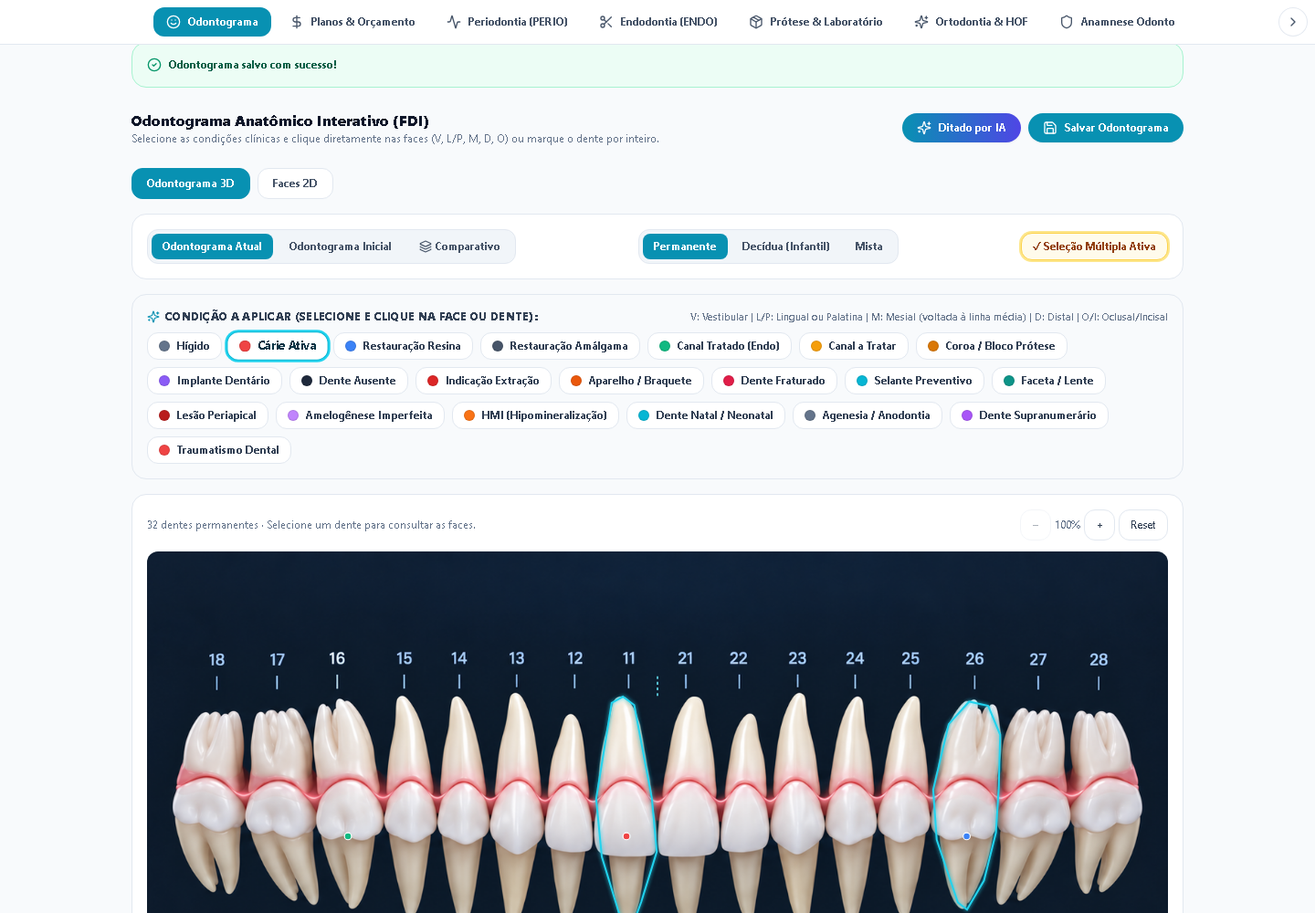
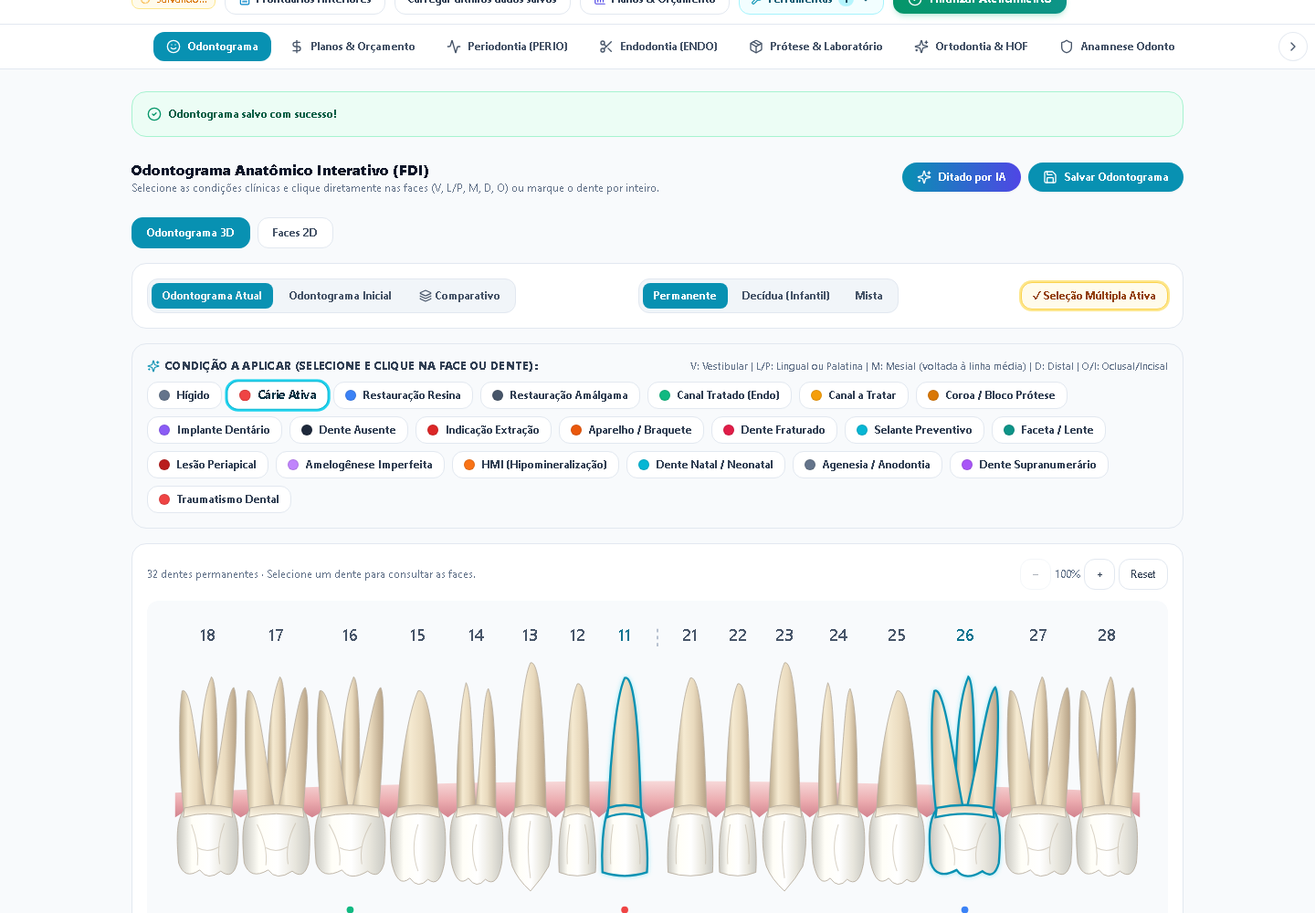
feat: separa estrutura dos dentes e aprimora selecao do odontograma 3d

diff --git a/frontend/src/components/dentistry/Odontogram3D.tsx b/frontend/src/components/dentistry/Odontogram3D.tsx
@@ -1,7 +1,13 @@
-import React, { useState } from 'react';
+import React, { useState, lazy, Suspense } from 'react';
 import { DENTAL_CONDITIONS, OdontogramData, ToothFace } from './odontogramModel';
 import { conditionLabel, describeToothStatus, faceLabel, toothFaces, toothName, ToothChange, updateToothCondition, isUpperTooth } from './odontogramClinical';
-import { PERMANENT_3D_HIT_AREAS } from './odontogram3DGeometry';
+const DentalArch3D = lazy(() => import('./DentalArch3D'));
+
+export class AnatomicalViewBoundary extends React.Component<{onShowFaces:()=>void;children:React.ReactNode},{failed:boolean}> {
+  state={failed:false};
+  static getDerivedStateFromError(){return {failed:true};}
+  render(){return this.state.failed ? <div role="alert" className="p-6 space-y-3"><p>Não foi possível carregar a visualização anatômica.</p><button type="button" className={button} onClick={this.props.onShowFaces}>Abrir Mapa de Faces 2D</button></div> : this.props.children;}
+}
 
 interface Props {
   currentData: OdontogramData;
@@ -14,15 +20,14 @@ interface Props {
   multiSelectMode: boolean;
   onToggleTooth: (tooth: number) => void;
   readOnly?: boolean;
-  showDebugHitAreas?: boolean;
+  showDebugBoundaries?: boolean;
 }
 const button = 'px-3 py-2 rounded-xl border border-slate-200 bg-white text-xs font-semibold text-slate-700 hover:border-cyan-500 focus-visible:ring-2 focus-visible:ring-cyan-500 disabled:opacity-40';
 
-export function Odontogram3D({ currentData, activeCondition, onChange, onToothClick, onOpenToothDossier, onShowFaces, selectedTeeth, multiSelectMode, onToggleTooth, readOnly = false, showDebugHitAreas = false }: Props) {
+export function Odontogram3D({ currentData, activeCondition, onChange, onToothClick, onOpenToothDossier, onShowFaces, selectedTeeth, multiSelectMode, onToggleTooth, readOnly = false, showDebugBoundaries = false }: Props) {
   const [selected, setSelected] = useState<number | null>(null);
   const [hovered, setHovered] = useState<number | null>(null);
   const [zoom, setZoom] = useState(1);
-  const [failed, setFailed] = useState(false);
   const condition = DENTAL_CONDITIONS.find(c => c.id === activeCondition);
   const targets = multiSelectMode ? selectedTeeth : selected ? [selected] : [];
   const apply = (face: ToothFace) => {
@@ -45,10 +50,6 @@ export function Odontogram3D({ currentData, activeCondition, onChange, onToothCl
       if (result.changes.length) onChange(result.data, result.changes);
     }
   };
-  if (failed) return <div role="alert" className="p-6 bg-white border rounded-2xl space-y-3">
-    <p>Não foi possível carregar a visualização 3D.</p><button type="button" className={button} onClick={onShowFaces}>Abrir Mapa de Faces 2D</button>
-  </div>;
-
   return <section aria-label="Odontograma 3D interativo" className="min-w-0 max-w-full bg-white border border-slate-200 rounded-2xl p-3 sm:p-4 space-y-3">
     <div className="flex flex-wrap justify-between items-center gap-2">
       <p className="text-xs text-slate-500">32 dentes permanentes · Selecione um dente para consultar as faces.</p>
@@ -60,34 +61,14 @@ export function Odontogram3D({ currentData, activeCondition, onChange, onToothCl
       </div>
     </div>
     <div className="max-w-full overflow-auto rounded-xl" style={{ maxHeight: zoom > 1 ? '70vh' : undefined }} tabIndex={0} aria-label="Arcadas; amplie e deslize para navegar">
-      <div className="relative" style={{ width: `${zoom * 100}%`, aspectRatio: '1448 / 1086' }}>
-        <img src="/assets/dentistry/odontogram-3d-permanent.png" alt="Arcadas permanentes com coroas, raízes e gengiva, numeradas pelo sistema FDI" width={1448} height={1086} className="block w-full h-auto object-contain" draggable={false} onError={() => setFailed(true)} />
-        <svg viewBox="0 0 1448 1086" className="absolute inset-0 w-full h-full" aria-label="Seleção dos dentes permanentes">
-          <path d="M724 177 V205 M724 855 V881" stroke="#67e8f9" strokeWidth="2" strokeDasharray="4 4" pointerEvents="none" />
-          {PERMANENT_3D_HIT_AREAS.map(area => {
-            const status = currentData[area.tooth] || {};
-            const selectedHere = multiSelectMode ? selectedTeeth.includes(area.tooth) : selected === area.tooth;
-            const highlighted = selectedHere || hovered === area.tooth;
-            const clinical = (['whole', ...toothFaces(area.tooth)] as ToothFace[]).filter(f => status[f] && status[f] !== 'healthy');
-            return <g key={area.tooth}>
-              <polygon data-tooth={area.tooth} points={area.points} role="button" tabIndex={0}
-                aria-label={`Dente ${area.tooth} — ${toothName(area.tooth)} — ${describeToothStatus(status, area.tooth)}`}
-                aria-pressed={selectedHere} onClick={() => select(area.tooth)}
-                onKeyDown={e => { if (e.key === 'Enter' || e.key === ' ') { e.preventDefault(); select(area.tooth); } }}
-                onMouseEnter={() => setHovered(area.tooth)} onMouseLeave={() => setHovered(null)}
-                onFocus={() => setHovered(area.tooth)} onBlur={() => setHovered(null)}
-                fill={status.whole === 'missing' ? '#0f172ac9' : showDebugHitAreas ? '#f472b640' : 'transparent'}
-                stroke={highlighted ? '#22d3ee' : showDebugHitAreas ? '#f472b6' : 'transparent'} strokeWidth={selectedHere ? 2 : 1}
-                vectorEffect="non-scaling-stroke" style={{ cursor: 'pointer', outline: 'none', filter: selectedHere ? 'drop-shadow(0 0 3px #22d3ee)' : undefined }}>
-                <title>{`Dente ${area.tooth}\n${toothName(area.tooth)}\n${describeToothStatus(status, area.tooth)}`}</title>
-              </polygon>
-              <g pointerEvents="none">
-                {clinical.map((face, i) => <circle key={face} cx={area.x + (i - (clinical.length - 1) / 2) * 12} cy={area.y + 34} r="5" stroke="white" strokeWidth="1.5" fill={DENTAL_CONDITIONS.find(c => c.id === status[face])?.color || '#64748b'} />)}
-                {(status.whole === 'implant' || status.whole === 'missing') && <text x={area.x} y={area.y} textAnchor="middle" fill={status.whole === 'implant' ? '#6d28d9' : 'white'} fontSize="13" fontWeight="bold">{status.whole === 'implant' ? 'Implante' : 'Ausente'}</text>}
-              </g>
-            </g>;
-          })}
-        </svg>
+      <div className="bg-slate-50 rounded-xl" style={{ width: `${zoom * 100}%`, minHeight: 180 }}>
+        <AnatomicalViewBoundary onShowFaces={onShowFaces}>
+          <Suspense fallback={<p role="status" className="p-6 text-sm text-slate-500">Carregando visualização anatômica...</p>}>
+            <DentalArch3D currentData={currentData} selected={selected} hovered={hovered}
+              selectedTeeth={selectedTeeth} multiSelectMode={multiSelectMode}
+              onSelect={select} onHover={setHovered} showDebugBoundaries={showDebugBoundaries}/>
+          </Suspense>
+        </AnatomicalViewBoundary>
       </div>
     </div>
     <div className="min-h-8 text-xs text-slate-600" role="status">{hovered ? `Dente ${hovered} — ${toothName(hovered)} · ${describeToothStatus(currentData[hovered], hovered)}` : 'Use Tab e Enter para selecionar pelo teclado. O zoom permite navegar pelas arcadas em telas menores.'}</div>

diff --git a/frontend/src/components/dentistry/DentalArch3D.tsx b/frontend/src/components/dentistry/DentalArch3D.tsx
@@ -1,0 +1,42 @@
+import React, {useId} from 'react';
+import { OdontogramData } from './odontogramModel';
+import { Tooth3D } from './Tooth3D';
+import { UPPER_PERMANENT, LOWER_PERMANENT, toothAnatomy } from './toothAnatomy';
+
+interface Props {
+  currentData: OdontogramData; selected: number | null; hovered: number | null;
+  selectedTeeth: number[]; multiSelectMode: boolean;
+  onSelect: (tooth: number)=>void; onHover: (tooth: number|null)=>void;
+  showDebugBoundaries?: boolean;
+}
+const widths=UPPER_PERMANENT.map((n,i)=>Math.max(toothAnatomy(n).width,toothAnatomy(LOWER_PERMANENT[i]).width)+6);
+const edge=(index:number)=>24+widths.slice(0,index).reduce((sum,w)=>sum+w,0)+(index>=8?12:0);
+const xPosition=(index:number)=>edge(index)+widths[index]/2-32;
+const sceneWidth=edge(16)+24;
+/** Cervical tissue connects the elements behind them; it cannot receive clicks. */
+function Gingiva({upper,paintId}:{upper:boolean;paintId:string}) {
+  const scallops=Array.from({length:16},(_,i)=>`Q${xPosition(i)+32} 117 ${edge(i)+widths[i]} 137`).join(' ');
+  return <path data-gingiva={upper?'upper':'lower'} pointerEvents="none"
+    transform={upper?undefined:'translate(0 210) scale(1 -1)'}
+    d={`M24 137 ${scallops} L${sceneWidth-24} 116 Q${sceneWidth/2} 96 24 116 Z`} fill={`url(#${paintId}-gum)`} opacity="0.9" />;
+}
+export default function DentalArch3D(props:Props) {
+  const paintId='tooth-'+useId().replace(/:/g,'');
+  return <svg viewBox={`0 0 ${sceneWidth} 570`} className="block w-full h-auto" aria-label="Arcadas permanentes individualizadas">
+    <defs>
+      <linearGradient id={`${paintId}-enamel`} x1="0" x2="1"><stop stopColor="#c8c7c0"/><stop offset=".24" stopColor="#fffef7"/><stop offset=".52" stopColor="#fff"/><stop offset=".78" stopColor="#e8e6dd"/><stop offset="1" stopColor="#c9c9c3"/></linearGradient>
+      <linearGradient id={`${paintId}-root`} x1="0" x2="1"><stop stopColor="#b9a789"/><stop offset=".3" stopColor="#f5ead1"/><stop offset=".6" stopColor="#e9dabe"/><stop offset="1" stopColor="#b6a185"/></linearGradient>
+      <linearGradient id={`${paintId}-neck`} x1="0" x2="0" y1="0" y2="1"><stop stopColor="#ded1b9"/><stop offset="1" stopColor="#fff9e9"/></linearGradient>
+      <linearGradient id={`${paintId}-gum`} x1="0" x2="0" y1="0" y2="1"><stop stopColor="#f7d5d5"/><stop offset=".55" stopColor="#eaa3a7"/><stop offset="1" stopColor="#ce7682"/></linearGradient>
+    </defs>
+    {[true,false].map(upper=><g key={String(upper)} data-arch={upper?'upper':'lower'} transform={`translate(0 ${upper?48:302})`}>
+      <Gingiva upper={upper} paintId={paintId}/>
+      {(upper?UPPER_PERMANENT:LOWER_PERMANENT).map((tooth,i)=><g key={tooth} transform={`translate(${xPosition(i)} 0)`}>
+        <Tooth3D tooth={tooth} upper={upper} paintId={paintId} status={props.currentData[tooth]||{}}
+          selected={props.multiSelectMode?props.selectedTeeth.includes(tooth):props.selected===tooth}
+          hovered={props.hovered===tooth} onSelect={props.onSelect} onHover={props.onHover} showDebugBoundaries={props.showDebugBoundaries}/>
+      </g>)}
+    </g>)}
+    <path d={`M${sceneWidth/2} 24 V40 M${sceneWidth/2} 542 V554`} stroke="#94a3b8" strokeDasharray="3 3" pointerEvents="none"/>
+  </svg>;
+}

diff --git a/frontend/src/components/dentistry/Tooth3D.tsx b/frontend/src/components/dentistry/Tooth3D.tsx
@@ -1,0 +1,38 @@
+import React from 'react';
+import { ToothStatus, ToothFace, DENTAL_CONDITIONS } from './odontogramModel';
+import { describeToothStatus, toothFaces, toothName } from './odontogramClinical';
+import { toothAnatomy } from './toothAnatomy';
+
+export interface Tooth3DProps {
+  tooth: number; status: ToothStatus; selected: boolean; hovered: boolean;
+  onSelect: (tooth: number) => void; onHover: (tooth: number | null) => void;
+  paintId: string; upper: boolean; showDebugBoundaries?: boolean;
+}
+export function Tooth3D({tooth,status,selected,hovered,onSelect,onHover,paintId,upper,showDebugBoundaries=false}: Tooth3DProps) {
+  const anatomy=toothAnatomy(tooth);
+  const highlighted=selected || hovered;
+  const clinical=(['whole',...toothFaces(tooth)] as ToothFace[]).filter(f=>status[f] && status[f]!=='healthy');
+  const stroke=highlighted?'#0891b2':'#b8afa0';
+  return <g data-tooth={tooth} role="button" tabIndex={0} aria-pressed={selected}
+    aria-label={`Dente ${tooth} — ${toothName(tooth)} — ${describeToothStatus(status,tooth)}`}
+    onClick={e=>{e.stopPropagation();onSelect(tooth);}}
+    onKeyDown={e=>{if(e.key==='Enter'||e.key===' '){e.preventDefault();onSelect(tooth);}}}
+    onMouseEnter={()=>onHover(tooth)} onMouseLeave={()=>onHover(null)} onFocus={()=>onHover(tooth)} onBlur={()=>onHover(null)}
+    style={{cursor:'pointer',outline:'none'}}>
+    <title>{`Dente ${tooth}\n${toothName(tooth)}\n${describeToothStatus(status,tooth)}`}</title>
+    <g data-anatomy transform={upper?undefined:'translate(0 210) scale(1 -1)'}
+      opacity={status.whole==='missing'?0.15:1} stroke={stroke} strokeWidth={highlighted?1.8:0.7}
+      style={{filter:highlighted?'drop-shadow(0 0 2px #22d3ee66)':undefined}}>
+      {anatomy.roots.map((d,i)=><path key={i} data-part="root" data-root={i+1} d={d} fill={`url(#${paintId}-root)`} pointerEvents="visiblePainted" />)}
+      <path data-part="crown" d={anatomy.crown} fill={`url(#${paintId}-enamel)`} pointerEvents="visiblePainted" />
+      <path data-part="cervical" d={anatomy.cervical} fill={`url(#${paintId}-neck)`} pointerEvents="visiblePainted" />
+      <path d={anatomy.grooves} fill="none" stroke="#c5bbaa" strokeWidth="0.8" opacity="0.65" pointerEvents="none" />
+    </g>
+    <g pointerEvents="none" aria-hidden="true">
+      <text data-fdi x="32" y={upper?-14:236} textAnchor="middle" fontSize="14" fontWeight="600" fill={highlighted?'#0e7490':'#475569'}>{tooth}</text>
+      {clinical.map((f,i)=><circle key={f} cx={32+(i-(clinical.length-1)/2)*8} cy={upper?216:-8} r="3" fill={DENTAL_CONDITIONS.find(c=>c.id===status[f])?.color||'#64748b'} />)}
+      {(status.whole==='missing'||status.whole==='implant')&&<text x="32" y={upper?231:-19} textAnchor="middle" fontSize="9" fill="#6d28d9">{status.whole==='missing'?'Ausente':'Implante'}</text>}
+      {showDebugBoundaries&&<rect data-debug-boundary x={(64-anatomy.width)/2-2} y="0" width={anatomy.width+4} height="210" fill="none" stroke="#d946ef" strokeDasharray="3 3" strokeWidth="0.6" />}
+    </g>
+  </g>;
+}

diff --git a/frontend/src/components/dentistry/toothAnatomy.ts b/frontend/src/components/dentistry/toothAnatomy.ts
@@ -1,0 +1,40 @@
+/** Local drawing coordinates, not hitboxes. Stylized permanent anatomy, not
+ * patient-specific morphology. Each path is both visible and interactive. */
+export interface ToothAnatomy { width: number; crown: string; roots: string[]; cervical: string; grooves: string; }
+export const UPPER_PERMANENT = [18,17,16,15,14,13,12,11,21,22,23,24,25,26,27,28];
+export const LOWER_PERMANENT = [48,47,46,45,44,43,42,41,31,32,33,34,35,36,37,38];
+
+export function toothAnatomy(tooth: number): ToothAnatomy {
+  const digit = tooth % 10;
+  const upper = tooth < 30;
+  const width = (upper ? [38,31,37,43,45,58,55,50] : [28,30,35,39,43,59,55,49])[digit - 1];
+  if (!width) throw new Error('Unsupported permanent tooth');
+  const l = (64-width)/2, r = 64-l;
+  const neckL = l+5, neckR = r-5;
+  const tip = digit === 3 ? 200 : digit <= 2 ? 187 : digit <= 5 ? 191 : 184;
+  const roots: string[] = [];
+  if (digit >= 6) {
+    if (upper) roots.push(`M25 134 C23 99 25 40 35 17 C41 22 40 87 40 134 Z`);
+    roots.push(`M${neckL} 136 C${l+1} 108 ${l-1} 50 ${l+3} 29 C${l+12} 24 23 95 32 136 Z`);
+    roots.push(`M32 136 C43 94 ${r-10} 32 ${r-3} 26 C${r+2} 34 ${r-2} 101 ${neckR} 136 Z`);
+  } else if (upper && digit === 4) {
+    roots.push(`M${neckL} 136 C14 101 17 44 23 22 C29 32 28 98 32 136 Z`);
+    roots.push(`M30 136 C36 93 37 34 42 27 C49 44 48 108 ${neckR} 136 Z`);
+  } else {
+    const apex = digit === 3 ? 5 : digit === 2 ? 23 : digit === 5 ? 29 : 18;
+    roots.push(`M${neckL} 136 C${neckL+1} 96 24 ${apex+17} 32 ${apex} C43 ${apex-4} ${neckR-1} 98 ${neckR} 136 Z`);
+  }
+  let crown: string;
+  let grooves: string;
+  if (digit <= 2) {
+    crown = `M${neckL} 130 Q32 125 ${neckR} 130 C${r} 144 ${r+1} 171 ${r} ${tip-3} Q32 ${tip+3} ${l} ${tip-3} C${l-1} 167 ${l} 143 ${neckL} 130 Z`;
+    grooves = `M${l+9} 143 Q${l+6} 162 ${l+7} 177 M${r-9} 143 Q${r-5} 162 ${r-6} 177`;
+  } else if (digit === 3) {
+    crown = `M${neckL} 130 Q32 124 ${neckR} 130 C${r+2} 145 ${r} 166 ${r-3} 179 Q42 189 32 ${tip} Q21 190 ${l+3} 179 C${l-1} 164 ${l-2} 145 ${neckL} 130 Z`;
+    grooves = 'M32 140 Q28 161 32 189';
+  } else {
+    crown = `M${neckL} 130 Q32 124 ${neckR} 130 C${r+3} 140 ${r+1} 164 ${r} 176 Q${r-4} ${tip+7} ${r-14} ${tip-1} Q32 ${tip+8} 25 ${tip-2} Q${l+5} ${tip+7} ${l} 176 C${l-2} 154 ${l-2} 139 ${neckL} 130 Z`;
+    grooves = digit <= 5 ? 'M32 143 Q25 164 32 183' : `M${l+11} 143 Q25 162 23 178 M${r-11} 142 Q39 160 42 177 M23 163 Q32 168 42 162`;
+  }
+  return {width,crown,roots,cervical:`M${neckL} 129 Q32 124 ${neckR} 129 L${neckR+1} 137 Q32 131 ${neckL-1} 137 Z`,grooves};
+}

diff --git a/frontend/tests/odontogram-3d.tsx b/frontend/tests/odontogram-3d.tsx
@@ -4,10 +4,14 @@ import { AuthProvider } from '../src/context/AuthContext';
 import { ToastProvider } from '../src/context/ToastContext';
 import { ApiClient } from '../src/api/client';
 import { DentistryWorkspace } from '../src/components/dentistry/DentistryWorkspace';
+import DentalArch3D from '../src/components/dentistry/DentalArch3D';
+import { AnatomicalViewBoundary } from '../src/components/dentistry/Odontogram3D';
 
 // HTTP fixture persists saves across real page reloads. Production workspace,
 // save handler, drawer and autosave hook are mounted without replacements.
 ApiClient.get = async (url: string): Promise<any> => (await fetch('/api' + url)).json();
 ApiClient.post = async (url: string, body: any): Promise<any> => (await fetch('/api' + url, { method: 'POST', headers: { 'Content-Type': 'application/json' }, body: JSON.stringify(body) })).json();
 localStorage.setItem('auth_token', 'fixture');
-createRoot(document.getElementById('root')!).render(<AuthProvider><ToastProvider><DentistryWorkspace initialPatientId="patient" initialAppointmentId="appointment" /></ToastProvider></AuthProvider>);
+function BrokenAnatomy(): React.ReactElement { throw new Error('Simulated anatomical rendering failure'); }
+const params = new URLSearchParams(location.search);
+createRoot(document.getElementById('root')!).render(params.has('debug') ? <DentalArch3D currentData={{}} selected={43} hovered={null} selectedTeeth={[]} multiSelectMode={false} onSelect={()=>{}} onHover={()=>{}} showDebugBoundaries /> : params.has('failure') ? <AnatomicalViewBoundary onShowFaces={()=>{location.href='/';}}><BrokenAnatomy /></AnatomicalViewBoundary> : <AuthProvider><ToastProvider><DentistryWorkspace initialPatientId="patient" initialAppointmentId="appointment" /></ToastProvider></AuthProvider>);

diff --git a/docs/odontogram-3d.md b/docs/odontogram-3d.md
@@ -1,59 +1,61 @@
-# Odontograma 3D — implementação e validação
+# Odontograma anatômico individualizado — relatório de correção
 
-## 1. Arquivos criados
+## 1. Análise do HTML fornecido
 
-- `frontend/src/components/dentistry/Odontogram3D.tsx`: imagem, interação SVG, painel contextual, seleção de faces, zoom, acessibilidade e fallback.
-- `frontend/src/components/dentistry/odontogram3DGeometry.ts`: mapa dos 32 elementos permanentes.
-- `frontend/src/components/dentistry/odontogramModel.ts`: tipos e lista oficial de condições extraídos, sem alteração do formato persistido.
-- `frontend/src/components/dentistry/odontogramClinical.ts`: mutações clínicas e descrições compartilhadas.
-- `frontend/tests/odontogram-3d.tsx`: montagem do workspace real para testes.
-- `frontend/tests/odontogram-3d-browser.cjs`: teste de navegador com servidor HTTP de persistência isolado.
-- Este relatório.
+O HTML usa somente DOM, CSS e JavaScript inline. `createArch` cria duas fileiras flexíveis com 16 wrappers cada. Cada wrapper tem `data-tooth`, uma div de dente, um número e um listener de clique. A seleção é um Set e a classe `selected`. O posicionamento usa fluxo flex, gap e margem na linha média; não há coordenadas 3D.
 
-## 2. Arquivos alterados
+Não existem assets externos, SVG, Canvas, WebGL, Three.js, meshes, modelos, raízes, cervical ou gengiva no HTML. Todos os dentes são o mesmo retângulo arredondado de 35 × 50. Portanto, ele não fornecia anatomia para extrair. Nenhum script externo foi executado ou incorporado.
 
-- `OdontogramCanvas.tsx`: seletor 3D/Faces 2D, integração da nova apresentação e uso dos helpers. SVGs de faces preservados. Tipos e condições continuam reexportados para manter os imports existentes compatíveis. Status textual passou a usar nomes clínicos.
-- `DentistryWorkspace.tsx`: nome da aba atualizado para Odontograma e chave por paciente para reiniciar a seleção visual ao trocar de paciente. Salvamento e autosave mantidos.
-- `ToothDossierDrawer.tsx`: condições exibidas com nomes clínicos em vez de identificadores internos.
+## 2. Referência aproveitada e abordagem escolhida
 
-## 3. Asset
+Foram aproveitados a individualização, as duas arcadas, a ordem FDI, a associação entre número e elemento, e a separação entre estado visual de seleção e dados. O desenho genérico foi substituído por SVG local com gradientes: uma ilustração anatômica estilizada com volume aparente, não um modelo 3D real ou reprodução fotográfica. Não há iframe nem CSS global importado.
 
-`frontend/public/assets/dentistry/odontogram-3d-permanent.png`
+## 3. Individualização e novos arquivos
 
-Cópia da imagem fornecida (1.678.415 bytes), sem base64, edição de pixels ou dependências gráficas adicionais. O fundo escuro pertence à imagem original; controles, painel e card usam o tema claro do Zemda. Não foi gerada uma variante com fundo claro.
+- `frontend/src/components/dentistry/Tooth3D.tsx`: um grupo interativo por FDI, com paths visíveis identificados por `data-part="crown"`, `root` e `cervical`.
+- `frontend/src/components/dentistry/DentalArch3D.tsx`: duas arcadas, gengiva separada, materiais SVG, linha média e posicionamento proporcional à largura dos elementos.
+- `frontend/src/components/dentistry/toothAnatomy.ts`: perfis locais dos oito tipos permanentes, com diferenças entre superior/inferior, coroas e raízes. Incisivos, caninos, pré-molares e molares têm proporções próprias. A morfologia é esquemática, não específica de um paciente; variações anatômicas individuais não são representadas.
 
-## 4. Mapeamento dos dentes
+Cada path desenha a própria estrutura e recebe eventos apenas na área pintada. Não há uma segunda geometria aproximada de hitbox. O grupo pai associa coroa, cervical e todas as raízes ao mesmo toothNumber. Enter/Espaço também selecionam o grupo. Números e marcadores não interceptam eventos.
 
-32 polígonos individuais no `viewBox="0 0 1448 1086"`, alinhados à imagem e redimensionados junto com ela. Cada polígono delimita o envelope da coroa e raízes visíveis, sem vetorizar a anatomia. Numeração já presente no asset: 18–11 / 21–28 e 48–41 / 31–38. Marcadores SVG indicam a linha média. `showDebugHitAreas` fica desativado por padrão.
+## 4. Removidos e refatorados
 
-## 5. Dados e salvamento compartilhados
+- Removido `frontend/src/components/dentistry/odontogram3DGeometry.ts`, incluindo `PERMANENT_3D_HIT_AREAS`.
+- Removido o PNG composto de `frontend/public/assets/dentistry/odontogram-3d-permanent.png`, agora sem uso. O arquivo original fornecido pelo usuário em Downloads não foi alterado.
+- Refatorado `Odontogram3D.tsx`: removidos imagem, polígonos e debug de hitboxes; preservados painel, condições, multisseleção, zoom e callbacks clínicos. Adicionados lazy import, Suspense e error boundary com acesso ao Mapa de Faces 2D.
+- Atualizados `frontend/tests/odontogram-3d.tsx` e `frontend/tests/odontogram-3d-browser.cjs`.
+- Atualizado este relatório e as capturas em `tmp/odontogram-*.png`.
 
-`DentistryWorkspace.odontogramData` continua sendo a fonte clínica. O 3D recebe o mesmo `data/currentData` usado pelo 2D e devolve atualizações pelo mesmo `onChange`. Esse callback atualiza `odontogramData` e acumula `pendingToothChanges`. `handleSaveOdontogram()` continua enviando `statusData` e `toothChanges` para `/v1/dentistry/odontograms`. O autosave existente continua recebendo esses dados. Nenhum estado clínico 3D paralelo, tabela, migration ou endpoint foi criado.
+## 5. Gengiva, seleção e status
 
-## 6. Condições de face
+A gengiva é uma faixa preenchida e ondulada na região cervical, separada por arcada e renderizada atrás dos dentes, com pointer-events desativado. Não participa da seleção. Os dentes preservam proporção por escala uniforme do viewBox; espaços são calculados pela largura anatômica, com margem pequena e intervalo central.
 
-No 3D, clicar em um dente com uma condição de face apenas seleciona o elemento. O profissional escolhe Vestibular, Palatina/Lingual, Mesial, Distal ou Oclusal/Incisal no painel. Na seleção múltipla, a face interna é resolvida por arcada para cada elemento. Não há escolha implícita de oclusal. O campo persistido para incisal continua sendo `oclusal`, conforme o formato existente.
+Hover/seleção alteram somente o contorno dos paths do elemento. As condições continuam usando os indicadores oficiais; ausente reduz a opacidade da anatomia daquele dente a 0,15, com label separado. Não há máscara sobre foto. Implante mantém indicador textual e pode futuramente substituir a estrutura visual dentro de Tooth3D.
 
-O helper compartilhado mantém o gesto de todas as faces do 2D e a alternância das condições. Hígido limpa apenas o alvo escolhido, sem apagar as demais faces. O botão de limpeza do dente inteiro remove apenas `whole`.
+## 6. Dados preservados
 
-## 7. Condições de dente inteiro
+`odontogramClinical.ts`, `odontogramModel.ts`, `OdontogramCanvas.tsx`, `DentistryWorkspace.tsx` e `ToothDossierDrawer.tsx` não foram alterados nesta correção. O 3D continua recebendo os mesmos dados e emitindo o mesmo onChange. `odontogramData`, `pendingToothChanges`, `handleSaveOdontogram()`, autosave, dossiê e endpoints continuam no fluxo existente.
 
-Condições com `affectsWholeTooth` usam `whole` e a regra de alternância já existente ao clicar. A aplicação explícita pelo painel e em lote define a condição. Indicadores usam as cores oficiais; ausente recebe máscara escura e identificação, implante recebe identificação própria. O contorno ciano representa seleção, separado da condição clínica.
+Condições de face continuam exigindo escolha explícita no painel. Coroa/raiz selecionam somente o dente, sem inferir face clínica. Decídua/mista e comparativo permanecem no 2D. Nenhuma mudança de backend, dependência nova, tabela ou estado clínico paralelo.
 
-## 8. Dossiê e histórico
+## 7. Testes
 
-Os botões Abrir dossiê e Histórico chamam o `onOpenToothDossier` existente. O mesmo drawer consulta `/v1/dentistry/teeth/:patientId/:toothNumber/dossier`. Não foi criado outro histórico. Alterações continuam emitindo `toothNumber`, `face`, `condition` e `previousCondition`.
+Comando: `node frontend/tests/odontogram-3d-browser.cjs`.
 
-## 9. Dentição e comparação
+- Clique físico no navegador sobre pontos pintados da coroa, cervical e cada raiz de todos os 32 dentes, na ordem FDI solicitada: passou; exatamente um elemento selecionado por clique em modo simples.
+- Extremos 18/28/38/48, incisivos próximos e raízes de 16/26/36/46 incluídos.
+- Bounding boxes anatômicas vizinhas estritamente separadas nas duas arcadas: passou.
+- Hover no 43 e clique no espaço entre 43/42 sem mudar a seleção: passou.
+- 46: Canal Tratado pela raiz no 3D, indicador no 2D, Restauração Oclusal no 2D refletida no 3D: passou.
+- Ausente: opacidade de 0,15 apenas no elemento: passou.
+- Sincronização 3D/2D no 26, salvamento/recarregamento, auditoria, dossiê, Hígido seletivo, multisseleção, inicial somente leitura, comparativo e dentições infantil/mista: passaram.
+- Desktop 1440, tablet 768 e mobile 390, zoom sem overflow horizontal global: passaram.
+- Error boundary com falha de renderização simulada e callback do fallback: passou.
 
-Permanente abre em 3D por padrão. Decídua e mista exibem automaticamente Faces 2D, com aviso de disponibilidade do 3D. O comparativo continua no 2D. Odontograma Inicial no 3D é somente leitura. Os controles e desenhos anteriores permanecem disponíveis.
+O teste monta o workspace real, mas usa um servidor HTTP de persistência em memória. Não valida autenticação ou banco de produção. Nenhum paciente real foi modificado.
 
-## 10. Verificação
+## 8. Verificação visual e build
 
-- `npm run build`: TypeScript e Vite concluíram com sucesso. Vite informa o aviso de chunk acima de 500 kB no bundle principal da aplicação.
-- `node tests/odontogram-3d-browser.cjs` (na pasta frontend): passou.
-- Cobertura: 32 dentes, ausência de seleção inicial, seleção por teclado, condição inteira, Cárie Oclusal no 26 em 3D e preenchimento vermelho no 2D, Restauração Vestibular pelo 2D refletida no 3D, salvamento pelo workspace e recarga, dossiê correto, limpeza seletiva, multisseleção superior/inferior, decídua/mista, inicial somente leitura, comparativo, zoom, fallback e auditoria.
-- Desktop 1440, tablet 768 e mobile 390: sem overflow horizontal global no teste. Capturas inspecionadas em `tmp/odontogram-1440.png`, `tmp/odontogram-768.png` e `tmp/odontogram-390.png`.
-- Busca por `OdontogramCanvas`, `OdontogramData`, `ToothStatus` e `pendingToothChanges` confirma o fluxo compartilhado.
+`showDebugBoundaries=true` foi ativado apenas na fixture de inspeção. A captura `tmp/odontogram-debug.png` mostra os limites próprios de cada elemento; eles não atravessam vizinhos nem linha média. Produção mantém false por padrão. Capturas responsivas: `tmp/odontogram-1440.png`, `tmp/odontogram-768.png` e `tmp/odontogram-390.png`.
 
-O teste usa componentes reais e o handler real de salvamento, com respostas HTTP e persistência em memória no servidor de teste. Não é uma validação contra o banco de produção nem contra a autenticação do backend real. Os endpoints existentes foram revisados e não foram alterados. Nenhum dado real de paciente foi modificado.
+`npm run build --prefix frontend`: TypeScript e Vite aprovados. O aviso de chunk grande do bundle principal da aplicação permanece. A anatomia é carregada por import dinâmico somente quando o 3D é montado; nenhum asset remoto ou imagem composta é carregado.
